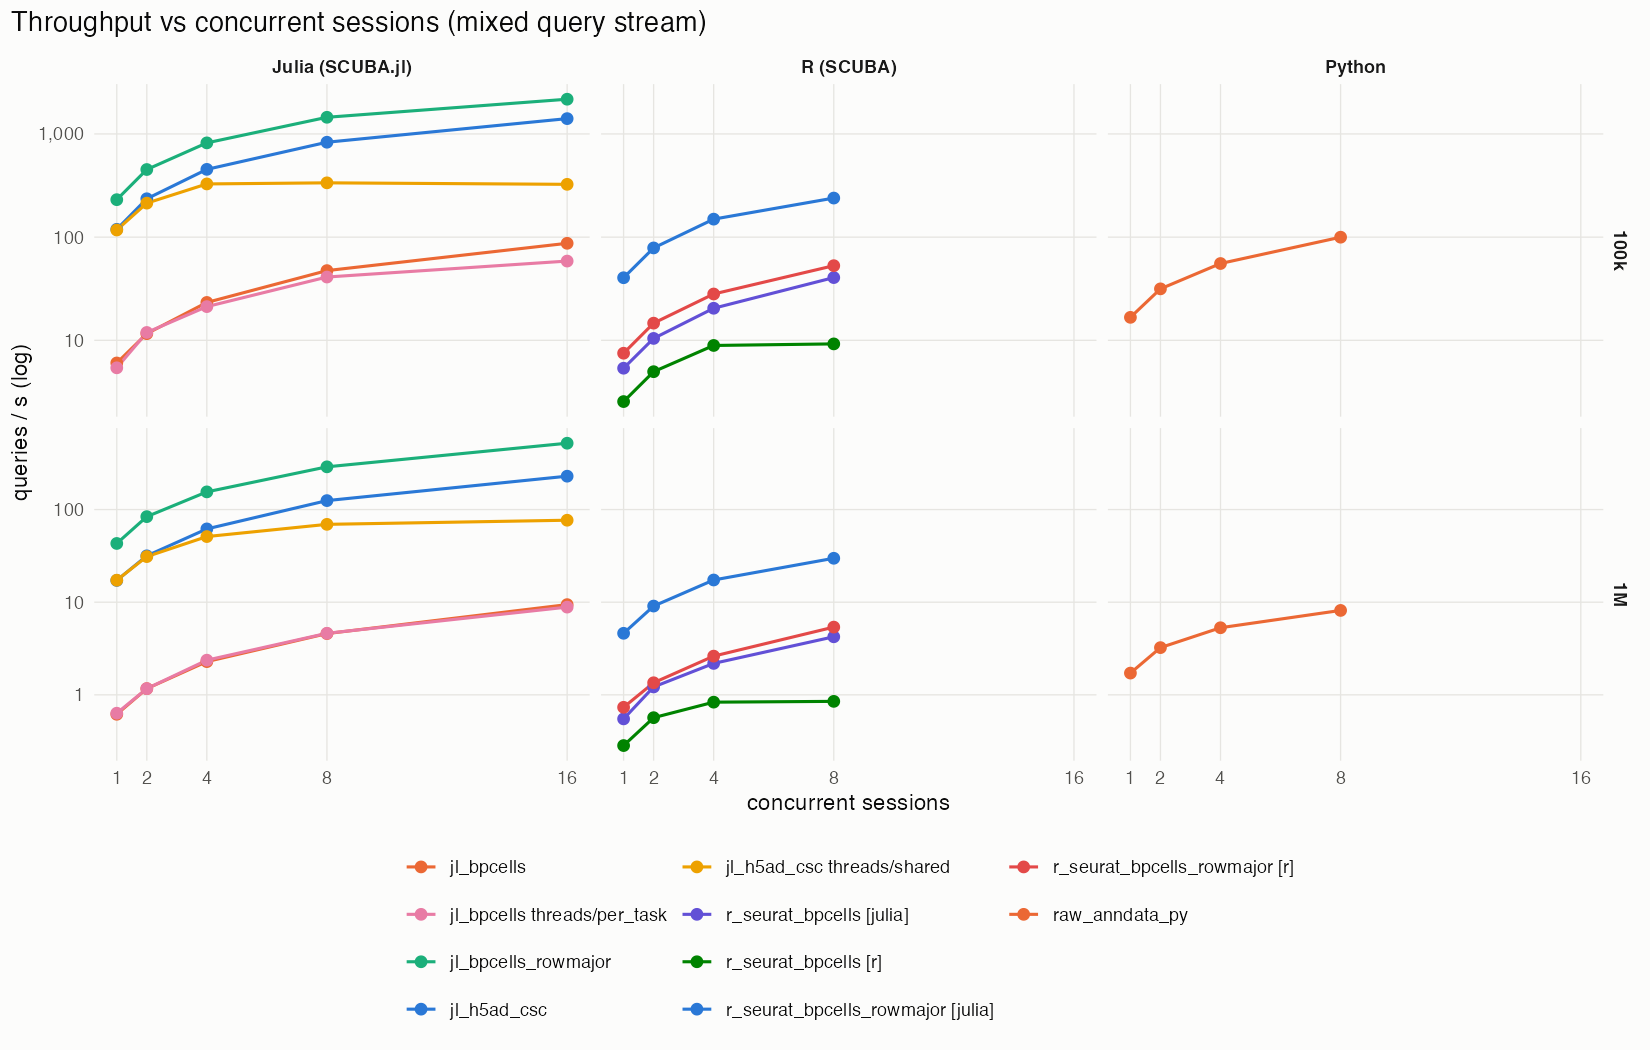
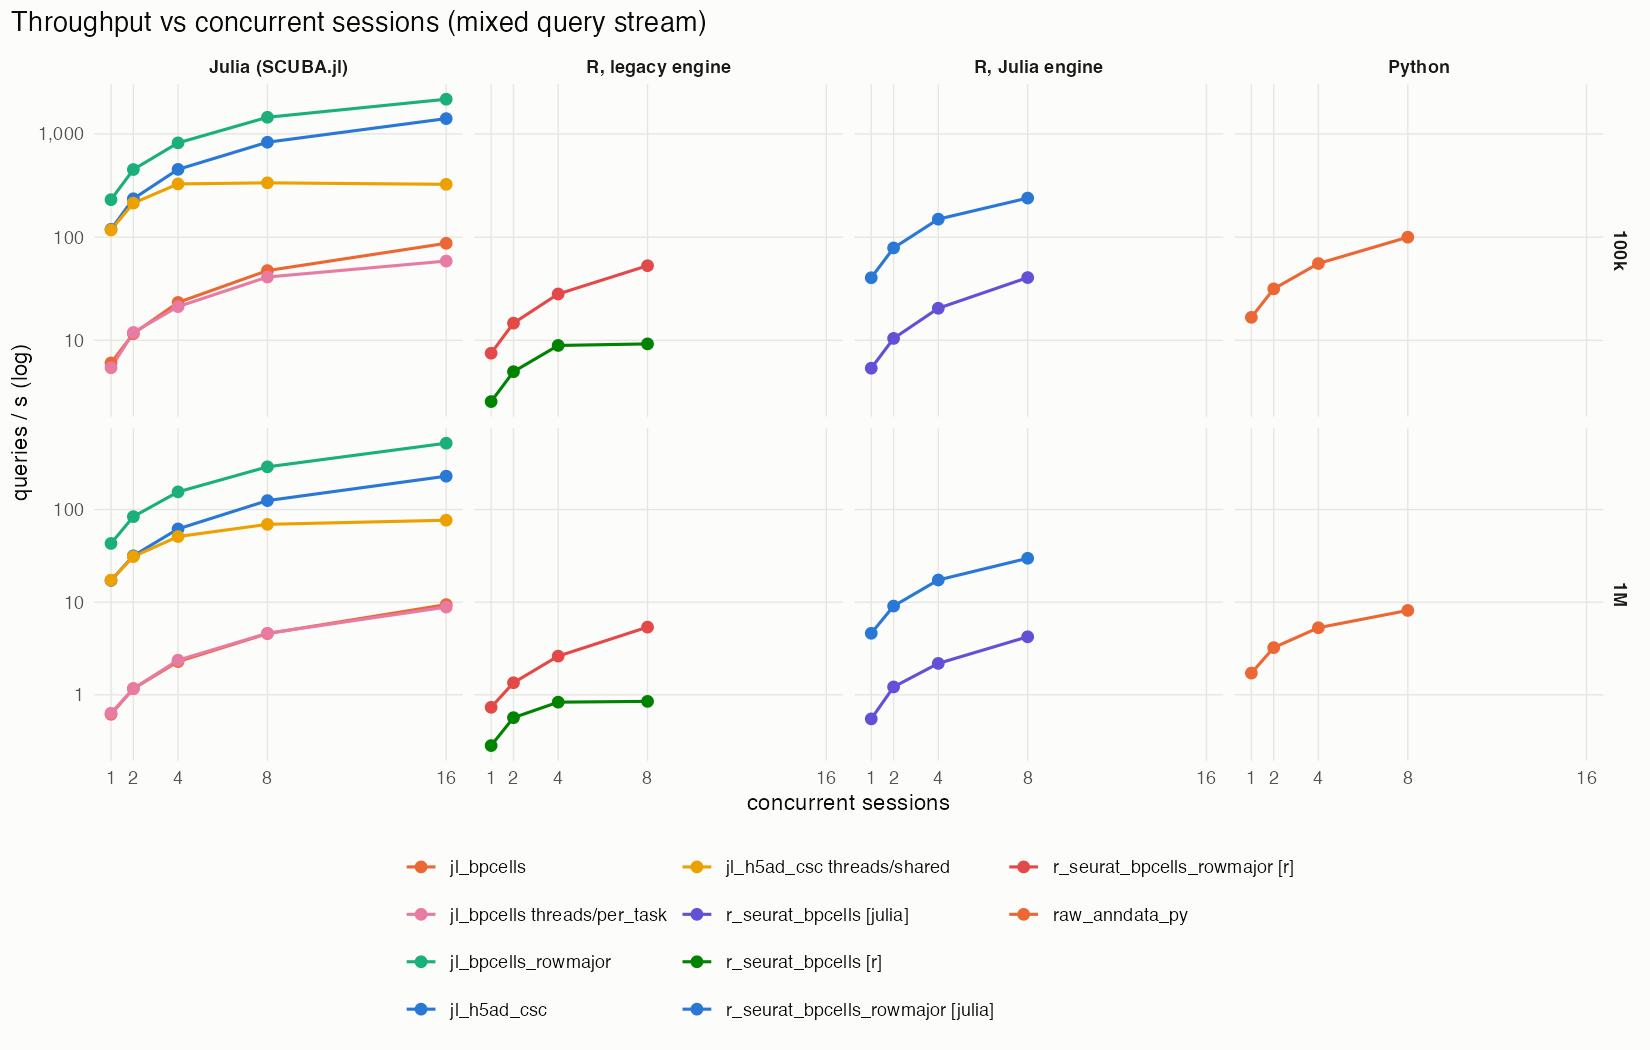
Bench report: file-backed R implementation and Python sparse/chunk rows at 100k and 1M
R panels are split by engine (legacy / Julia) so each keeps a fixed <= 8-colour slot set;
`r_h5ad_julia [julia]` gets its own slot. Interpretation adds the file-backed h5ad path from R
(1 gene over 1M cells 245 ms, 1000 genes 4.1 s, sparse block 3.1 s) and the Python sparse
(1.0 s) and chunked (10 s) rows for 1000 genes x 1M cells.

diff --git a/bench/report/summary.md b/bench/report/summary.md
@@ -1,6 +1,6 @@
 # SCUBA benchmark summary
 
-Generated 2026-10-21 00:35 MDT from `results.parquet` (843317 rows, 843242 ok).
+Generated 2026-10-22 01:24 MDT from `results.parquet` (845093 rows, 845015 ok).
 
 ## Interpretation
 
@@ -43,6 +43,17 @@ R engine and Julia engine) and raw library baselines on synthetic datasets of 10
   start-up 5.0 s → 3.3 s (JuliaCall's own set-up is ~2 s of that and RCall cannot be compiled into
   the image on Julia 1.13), after which the first call on a real object costs ~0.15 s thanks to a
   warm-up on tiny objects at start-up. For a Shiny app this is a one-time cost in `global.R`.
+- **File-backed h5ad from R (`r_h5ad_julia`).** `SCUBA::open_h5ad()` serves a csc h5ad file to R
+  through the Julia engine without reticulate: one gene over 1M cells costs 245 ms (13 ms at 100k)
+  and 1000 genes 4.1 s; `fetch_matrix(sparse = TRUE)` returns the 1000-gene block as a `dgCMatrix`
+  in 3.1 s. The fixed cost per call is the 1M-element cell-name column crossing JuliaCall into R
+  (the Julia reader itself needs 1.2 ms); metadata, cells and reductions stay in R (81 ms for the
+  full table, 87 ms for `fetch_cells`). This replaces the legacy reticulate path, which could not
+  be measured at all with current R `anndata`.
+- **Sparse and chunked results in Python.** `fetch_matrix(sparse=True)` hands 1000 genes × 1M cells
+  to scipy in 1.0 s versus 3.1 s for the dense pandas frame; `iter_chunks` over the same request
+  (sparse, 256 MiB chunks) takes 10 s because every chunk re-reads the requested csc columns, so
+  chunking is for bounding memory, not for speed, on this layout.
 - **Memory.** A 1000-gene × 1M-cell dense result is 8 GB; peak RSS reached 25 GB in Julia and 60 GB
   in R in these runs. SCUBA.jl now fills result columns directly for results above 256 MiB (peak
   ~9 GB for the same query), offers `eltype = Float32` and a sparse `fetch_matrix`, and the size
@@ -63,7 +74,7 @@ on its internal SSD.
 | jl_bpcells_rowmajor | 0.0 ms (IQR 0.0 ms–0.0 ms) | 0.1 ms (IQR 0.1 ms–0.1 ms) | 1.0 ms (IQR 0.9 ms–1.0 ms) | 10.3 ms (IQR 9.9 ms–10.3 ms) |
 | raw_anndata_py | 8.6 ms (IQR 8.6 ms–8.8 ms) | 8.8 ms (IQR 8.5 ms–8.9 ms) | 13.3 ms (IQR 12.8 ms–13.7 ms) | 44.8 ms (IQR 44.3 ms–45.6 ms) |
 | raw_h5py_py | 0.1 ms (IQR 0.1 ms–0.1 ms) | 1.2 ms (IQR 1.1 ms–1.2 ms) | 9.9 ms (IQR 9.9 ms–10.5 ms) | 100.4 ms (IQR 99.8 ms–105.7 ms) |
-| py_scuba_sc | 2.7 ms (IQR 2.6 ms–2.7 ms) | 4.1 ms (IQR 3.8 ms–4.7 ms) | 24.9 ms (IQR 22.9 ms–33.5 ms) | 254.5 ms (IQR 244.5 ms–267.2 ms) |
+| py_scuba_sc | 0.4 ms (IQR 0.4 ms–0.4 ms) | 1.1 ms (IQR 1.0 ms–1.2 ms) | 14.1 ms (IQR 10.4 ms–17.7 ms) | 155.1 ms (IQR 145.5 ms–194.3 ms) |
 | r_seurat_bpcells [r] | 54.0 ms (IQR 52.5 ms–55.0 ms) | 61.0 ms (IQR 60.0 ms–62.0 ms) | 125.0 ms (IQR 123.5 ms–130.0 ms) | 1.3 s (IQR 1.3 s–1.3 s) |
 | r_seurat_bpcells_rowmajor [r] | 26.0 ms (IQR 25.5 ms–26.0 ms) | 33.0 ms (IQR 32.0 ms–33.0 ms) | 102.0 ms (IQR 99.5 ms–103.5 ms) | 1.4 s (IQR 1.3 s–1.4 s) |
 | r_sce_backed [r] | 35.0 ms (IQR 35.0 ms–37.5 ms) | 38.0 ms (IQR 36.0 ms–38.0 ms) | 57.0 ms (IQR 56.0 ms–57.0 ms) | 542.0 ms (IQR 248.5 ms–571.0 ms) |
@@ -72,6 +83,7 @@ on its internal SSD.
 | r_seurat_bpcells [julia] | 32.0 ms (IQR 30.5 ms–32.0 ms) | 32.0 ms (IQR 32.0 ms–33.0 ms) | 39.0 ms (IQR 38.0 ms–41.0 ms) | 127.0 ms (IQR 110.5 ms–135.0 ms) |
 | r_seurat_bpcells_rowmajor [julia] | 1.0 ms (IQR 1.0 ms–1.0 ms) | 2.0 ms (IQR 1.0 ms–2.0 ms) | 7.0 ms (IQR 6.0 ms–7.0 ms) | 102.0 ms (IQR 79.5 ms–107.5 ms) |
 | r_sce_backed [julia] | 9.0 ms (IQR 9.0 ms–9.0 ms) | 12.0 ms (IQR 12.0 ms–13.0 ms) | 48.0 ms (IQR 45.0 ms–49.0 ms) | 500.0 ms (IQR 481.0 ms–764.5 ms) |
+| r_h5ad_julia [julia] | 1.0 ms (IQR 1.0 ms–2.0 ms) | 2.0 ms (IQR 2.0 ms–3.0 ms) | 14.0 ms (IQR 11.0 ms–17.0 ms) | 160.0 ms (IQR 157.5 ms–163.0 ms) |
 
 ## 10k cells: metadata, reductions, cells (median)
 
@@ -82,13 +94,14 @@ on its internal SSD.
 | jl_bpcells | 1.1 ms | 1.2 ms | 0.4 ms | 0.2 ms | 0.0 ms | 0.0 ms | 0.4 ms | 0.0 ms | 0.0 ms | 0.0 ms |
 | jl_bpcells_rowmajor | 1.4 ms | 1.5 ms | 0.4 ms | 0.2 ms | 0.0 ms | 0.0 ms | 0.4 ms | 0.0 ms | 0.0 ms | 0.0 ms |
 | raw_anndata_py | 9.4 ms | 9.8 ms | 19.4 ms | 0.1 ms | 0.1 ms | 0.1 ms | 0.4 ms | 0.0 ms | 19.9 ms | 19.1 ms |
-| py_scuba_sc | 2.5 ms | 3.6 ms | 23.7 ms | 12.3 ms | 3.3 ms | 5.2 ms | 52.7 ms | 4.9 ms | 0.4 ms | 0.4 ms |
+| py_scuba_sc | 2.3 ms | 3.2 ms | 19.6 ms | 10.2 ms | 0.6 ms | 2.4 ms | 56.8 ms | 2.4 ms | 0.3 ms | 0.3 ms |
 | r_seurat_bpcells [r] | 1.0 ms | 2.0 ms | 2.0 ms | 0.0 ms | 1.0 ms | 1.0 ms |  | 0.0 ms | 1.0 ms | 1.0 ms |
 | r_seurat_bpcells_rowmajor [r] | 1.0 ms | 1.0 ms | 2.0 ms | 0.0 ms | 1.0 ms | 1.0 ms |  | 1.0 ms | 1.0 ms | 1.0 ms |
 | r_sce_backed [r] | 2.0 ms | 2.0 ms | 4.0 ms | 6.0 ms | 3.0 ms | 19.0 ms |  | 19.0 ms | 2.0 ms | 3.0 ms |
 | r_seurat_bpcells [julia] | 2.0 ms | 3.0 ms | 4.0 ms | 14.0 ms | 2.0 ms | 2.0 ms | 14.0 ms | 2.0 ms | 4.0 ms | 4.0 ms |
 | r_seurat_bpcells_rowmajor [julia] | 3.0 ms | 3.0 ms | 4.0 ms | 16.0 ms | 1.0 ms | 2.0 ms | 15.0 ms | 2.0 ms | 4.0 ms | 4.0 ms |
 | r_sce_backed [julia] | 2.0 ms | 3.0 ms | 3.0 ms | 19.0 ms | 2.0 ms | 5.0 ms | 18.0 ms | 5.0 ms | 4.0 ms | 4.0 ms |
+| r_h5ad_julia [julia] | 0.0 ms | 0.0 ms | 2.0 ms | 1.0 ms | 0.0 ms | 4.0 ms |  | 3.0 ms | 1.0 ms | 1.0 ms |
 
 ## 100k cells: feature fetch over all cells, warm (median, IQR)
 
@@ -100,7 +113,7 @@ on its internal SSD.
 | jl_bpcells_rowmajor | 0.2 ms (IQR 0.2 ms–0.3 ms) | 0.8 ms (IQR 0.7 ms–0.8 ms) | 7.6 ms (IQR 7.2 ms–7.9 ms) | 70.9 ms (IQR 69.6 ms–71.8 ms) |
 | raw_anndata_py | 38.2 ms (IQR 37.2 ms–39.3 ms) | 40.6 ms (IQR 37.9 ms–41.2 ms) | 51.1 ms (IQR 47.4 ms–51.6 ms) | 113.5 ms (IQR 110.6 ms–115.5 ms) |
 | raw_h5py_py | 0.1 ms (IQR 0.1 ms–0.2 ms) | 1.2 ms (IQR 1.2 ms–1.2 ms) | 13.6 ms (IQR 12.8 ms–13.7 ms) | 134.5 ms (IQR 132.4 ms–135.3 ms) |
-| py_scuba_sc | 1.2 ms (IQR 1.1 ms–1.2 ms) | 9.5 ms (IQR 4.7 ms–32.9 ms) | 88.4 ms (IQR 47.5 ms–93.7 ms) | 423.1 ms (IQR 368.1 ms–465.3 ms) |
+| py_scuba_sc | 1.3 ms (IQR 1.2 ms–1.3 ms) | 4.9 ms (IQR 4.4 ms–13.2 ms) | 86.4 ms (IQR 41.5 ms–96.5 ms) | 473.3 ms (IQR 447.0 ms–496.6 ms) |
 | r_seurat_bpcells [r] | 523.0 ms (IQR 519.0 ms–529.5 ms) | 595.0 ms (IQR 589.0 ms–616.0 ms) | 1.9 s (IQR 1.6 s–1.9 s) | 7.4 s (IQR 7.3 s–7.6 s) |
 | r_sce_backed [r] | 50.0 ms (IQR 50.0 ms–54.0 ms) | 68.0 ms (IQR 67.0 ms–68.0 ms) | 264.0 ms (IQR 259.0 ms–273.0 ms) | 3.0 s (IQR 2.9 s–3.3 s) |
 | raw_bpcells_r [r] | 328.0 ms (IQR 317.5 ms–330.5 ms) | 328.0 ms (IQR 324.5 ms–333.0 ms) | 414.0 ms (IQR 409.5 ms–425.5 ms) | 781.0 ms (IQR 771.0 ms–1.1 s) |
@@ -108,6 +121,7 @@ on its internal SSD.
 | r_seurat_bpcells [julia] | 316.0 ms (IQR 313.5 ms–319.0 ms) | 322.0 ms (IQR 319.0 ms–324.5 ms) | 432.0 ms (IQR 428.0 ms–438.5 ms) | 829.0 ms (IQR 773.0 ms–1.1 s) |
 | r_seurat_bpcells_rowmajor [julia] | 6.0 ms (IQR 6.0 ms–6.0 ms) | 10.0 ms (IQR 10.0 ms–10.0 ms) | 87.0 ms (IQR 51.0 ms–96.5 ms) | 462.0 ms (IQR 385.5 ms–809.5 ms) |
 | r_sce_backed [julia] | 19.0 ms (IQR 18.5 ms–25.0 ms) | 58.0 ms (IQR 57.0 ms–63.5 ms) | 485.0 ms (IQR 459.0 ms–501.0 ms) | 4.4 s (IQR 4.4 s–4.5 s) |
+| r_h5ad_julia [julia] | 13.0 ms (IQR 12.5 ms–14.5 ms) | 18.0 ms (IQR 17.5 ms–22.0 ms) | 107.0 ms (IQR 65.5 ms–109.0 ms) | 784.0 ms (IQR 621.5 ms–1.0 s) |
 
 ## 100k cells: metadata, reductions, cells (median)
 
@@ -118,12 +132,13 @@ on its internal SSD.
 | jl_bpcells | 11.3 ms | 12.2 ms | 4.2 ms | 1.4 ms | 0.1 ms | 0.2 ms | 3.6 ms | 0.2 ms | 0.0 ms | 0.0 ms |
 | jl_bpcells_rowmajor | 12.8 ms | 13.8 ms | 4.5 ms | 1.5 ms | 0.1 ms | 0.2 ms | 3.8 ms | 0.2 ms | 0.0 ms | 0.0 ms |
 | raw_anndata_py | 98.6 ms | 103.8 ms | 200.5 ms | 0.1 ms | 0.1 ms | 0.7 ms | 1.8 ms | 0.2 ms | 192.1 ms | 185.0 ms |
-| py_scuba_sc | 24.3 ms | 33.2 ms | 197.9 ms | 59.9 ms | 1.6 ms | 20.2 ms | 559.6 ms | 18.6 ms | 1.5 ms | 1.5 ms |
+| py_scuba_sc | 25.0 ms | 30.5 ms | 193.8 ms | 62.8 ms | 1.4 ms | 19.5 ms | 531.8 ms | 18.6 ms | 1.5 ms | 1.4 ms |
 | r_seurat_bpcells [r] | 7.0 ms | 12.0 ms | 16.0 ms | 0.0 ms | 3.0 ms | 6.0 ms |  | 5.0 ms | 3.0 ms | 3.0 ms |
 | r_sce_backed [r] | 5.0 ms | 8.0 ms | 16.0 ms | 8.0 ms | 4.0 ms | 25.0 ms |  | 25.0 ms | 5.0 ms | 5.0 ms |
 | r_seurat_bpcells [julia] | 19.0 ms | 21.0 ms | 26.0 ms | 188.0 ms | 8.0 ms | 16.0 ms | 198.0 ms | 16.0 ms | 25.0 ms | 25.0 ms |
 | r_seurat_bpcells_rowmajor [julia] | 6.0 ms | 10.0 ms | 14.0 ms | 0.0 ms | 3.0 ms | 4.0 ms |  | 4.0 ms | 3.0 ms | 3.0 ms |
 | r_sce_backed [julia] | 20.0 ms | 23.0 ms | 27.0 ms | 149.0 ms | 8.0 ms | 21.0 ms | 215.0 ms | 22.0 ms | 26.0 ms | 27.0 ms |
+| r_h5ad_julia [julia] | 4.0 ms | 7.0 ms | 12.0 ms | 7.0 ms | 2.0 ms | 39.0 ms |  | 38.0 ms | 6.0 ms | 5.0 ms |
 
 ## 1M cells: feature fetch over all cells, warm (median, IQR)
 
@@ -135,7 +150,7 @@ on its internal SSD.
 | jl_bpcells_rowmajor | 1.9 ms (IQR 1.9 ms–2.0 ms) | 8.2 ms (IQR 7.7 ms–8.3 ms) | 86.7 ms (IQR 86.0 ms–87.3 ms) | 1.7 s (IQR 1.6 s–1.9 s) |
 | raw_anndata_py | 497.4 ms (IQR 479.4 ms–500.7 ms) | 464.3 ms (IQR 459.3 ms–479.7 ms) | 504.2 ms (IQR 502.0 ms–519.1 ms) | 809.3 ms (IQR 807.3 ms–815.9 ms) |
 | raw_h5py_py | 0.1 ms (IQR 0.1 ms–0.1 ms) | 0.9 ms (IQR 0.8 ms–1.3 ms) | 13.1 ms (IQR 10.4 ms–14.6 ms) | 127.5 ms (IQR 126.8 ms–127.8 ms) |
-| py_scuba_sc | 7.7 ms (IQR 6.7 ms–16.8 ms) | 96.1 ms (IQR 89.8 ms–101.6 ms) | 426.0 ms (IQR 352.9 ms–482.2 ms) | 3.3 s (IQR 3.1 s–3.5 s) |
+| py_scuba_sc | 8.1 ms (IQR 7.0 ms–18.3 ms) | 93.3 ms (IQR 69.2 ms–102.4 ms) | 412.4 ms (IQR 317.5 ms–457.9 ms) | 3.1 s (IQR 3.0 s–3.3 s) |
 | r_seurat_bpcells [r] | 5.5 s (IQR 5.5 s–5.6 s) | 6.5 s (IQR 6.2 s–6.6 s) | 14.2 s (IQR 14.0 s–14.3 s) | 70.6 s (IQR 69.9 s–73.0 s) |
 | r_seurat_bpcells_rowmajor [r] | 2.3 s (IQR 2.3 s–2.4 s) | 3.4 s (IQR 3.3 s–3.4 s) | 10.7 s (IQR 10.6 s–10.9 s) | 67.5 s (IQR 67.1 s–67.9 s) |
 | r_sce_backed [r] | 254.0 ms (IQR 251.0 ms–256.0 ms) | 438.0 ms (IQR 431.0 ms–450.0 ms) | 3.9 s (IQR 3.8 s–4.1 s) | 39.6 s (IQR 39.4 s–40.1 s) |
@@ -144,6 +159,7 @@ on its internal SSD.
 | r_seurat_bpcells [julia] | 3.3 s (IQR 3.2 s–3.3 s) | 3.4 s (IQR 3.4 s–3.4 s) | 4.1 s (IQR 4.1 s–4.3 s) | 8.0 s (IQR 7.8 s–8.1 s) |
 | r_seurat_bpcells_rowmajor [julia] | 110.0 ms (IQR 107.0 ms–128.5 ms) | 202.0 ms (IQR 146.5 ms–212.0 ms) | 535.0 ms (IQR 436.0 ms–611.5 ms) | 4.7 s (IQR 4.6 s–4.9 s) |
 | r_sce_backed [julia] | 181.0 ms (IQR 178.0 ms–187.0 ms) | 637.0 ms (IQR 628.5 ms–643.0 ms) | 4.5 s (IQR 4.1 s–4.6 s) | 40.6 s (IQR 40.2 s–40.9 s) |
+| r_h5ad_julia [julia] | 245.0 ms (IQR 209.0 ms–256.5 ms) | 306.0 ms (IQR 297.5 ms–318.0 ms) | 667.0 ms (IQR 634.0 ms–712.5 ms) | 4.1 s (IQR 4.0 s–4.5 s) |
 
 ## 1M cells: metadata, reductions, cells (median)
 
@@ -154,13 +170,14 @@ on its internal SSD.
 | jl_bpcells | 136.0 ms | 149.3 ms | 44.5 ms | 16.1 ms | 1.2 ms | 2.4 ms | 33.6 ms | 2.4 ms | 0.1 ms | 0.1 ms |
 | jl_bpcells_rowmajor | 132.8 ms | 142.0 ms | 44.8 ms | 15.6 ms | 1.1 ms | 2.3 ms | 35.2 ms | 2.3 ms | 0.1 ms | 0.1 ms |
 | raw_anndata_py | 55.3 ms | 85.2 ms | 130.3 ms | 0.3 ms | 0.3 ms | 12.4 ms | 44.9 ms | 0.6 ms | 108.9 ms | 78.1 ms |
-| py_scuba_sc | 272.2 ms | 344.4 ms | 149.8 ms | 845.2 ms | 6.9 ms | 296.9 ms | 5.6 s | 279.5 ms | 14.5 ms | 13.7 ms |
+| py_scuba_sc | 214.0 ms | 301.9 ms | 142.9 ms | 732.8 ms | 6.6 ms | 281.8 ms | 5.0 s | 267.9 ms | 13.6 ms | 12.9 ms |
 | r_seurat_bpcells [r] | 85.0 ms | 137.0 ms | 144.0 ms | 2.0 ms | 32.0 ms | 60.0 ms |  | 62.0 ms | 34.0 ms | 34.0 ms |
 | r_seurat_bpcells_rowmajor [r] | 88.0 ms | 133.0 ms | 140.0 ms | 2.0 ms | 28.0 ms | 56.0 ms |  | 53.0 ms | 33.0 ms | 35.0 ms |
 | r_sce_backed [r] | 68.0 ms | 99.0 ms | 140.0 ms | 44.0 ms | 30.0 ms | 123.0 ms |  | 133.0 ms | 33.0 ms | 34.0 ms |
 | r_seurat_bpcells [julia] | 236.0 ms | 291.0 ms | 340.0 ms | 1.8 s | 133.0 ms | 243.0 ms | 1.8 s | 232.0 ms | 401.0 ms | 429.0 ms |
 | r_seurat_bpcells_rowmajor [julia] | 233.0 ms | 279.0 ms | 336.0 ms | 1.7 s | 135.0 ms | 252.0 ms | 1.7 s | 301.0 ms | 401.0 ms | 415.0 ms |
 | r_sce_backed [julia] | 230.0 ms | 291.0 ms | 337.0 ms | 1.8 s | 139.0 ms | 259.0 ms | 1.9 s | 257.0 ms | 412.0 ms | 429.0 ms |
+| r_h5ad_julia [julia] | 57.0 ms | 87.0 ms | 136.0 ms | 81.0 ms | 28.0 ms | 495.0 ms |  | 455.0 ms | 73.0 ms | 72.0 ms |
 
 ## Startup, open and first-call latency (median)
 
@@ -201,15 +218,18 @@ on its internal SSD.
 | r_sce_backed [julia] | 100k | 117.0 ms | 214.0 ms |  |
 | r_sce_backed [julia] | 10k | 47.0 ms | 32.0 ms |  |
 | r_sce_backed [julia] | 1M | 462.0 ms | 2.4 s |  |
+| r_h5ad_julia [julia] | 100k | 14.0 ms | 387.0 ms | 4.8 s |
+| r_h5ad_julia [julia] | 10k | 3.0 ms | 201.0 ms | 4.9 s |
+| r_h5ad_julia [julia] | 1M | 266.0 ms | 3.9 s | 4.9 s |
 | raw_anndata_py | 100k | 51.1 ms | 780.0 ms | 1.3 s |
 | raw_anndata_py | 10k | 9.4 ms | 545.5 ms | 1.3 s |
 | raw_anndata_py | 1M | 96.9 ms | 3.2 s | 1.6 s |
 | raw_h5py_py | 100k | 0.3 ms | 49.9 ms |  |
 | raw_h5py_py | 10k | 0.2 ms | 14.7 ms |  |
 | raw_h5py_py | 1M | 0.2 ms | 403.2 ms |  |
-| py_scuba_sc | 100k | 306.5 ms | 4.2 s | 32.9 ms |
-| py_scuba_sc | 10k | 367.0 ms | 5.4 s | 35.1 ms |
-| py_scuba_sc | 1M | 479.8 ms | 5.1 s | 41.0 ms |
+| py_scuba_sc | 100k | 350.9 ms | 4.2 s | 831.9 ms |
+| py_scuba_sc | 10k | 284.5 ms | 8.8 s | 36.1 ms |
+| py_scuba_sc | 1M | 753.1 ms | 5.1 s | 860.4 ms |
 
 ## Skipped and failed cells
 
@@ -219,6 +239,9 @@ on its internal SSD.
 | r_anndata_backed | r | 100k | skipped | R anndata 0.8.0 returns python-class objects; install remotes::install_version('anndata', '0.7.5.6') |  1 |
 | r_anndata_backed | r | 10k | skipped | R anndata 0.8.0 returns python-class objects; install remotes::install_version('anndata', '0.7.5.6') |  1 |
 | r_anndata_backed | r | 1M | skipped | R anndata 0.8.0 returns python-class objects; install remotes::install_version('anndata', '0.7.5.6') |  1 |
+| r_h5ad_julia | julia | 100k | skipped | legacy fetch_reduction supports exactly two dims |  1 |
+| r_h5ad_julia | julia | 10k | skipped | legacy fetch_reduction supports exactly two dims |  1 |
+| r_h5ad_julia | julia | 1M | skipped | legacy fetch_reduction supports exactly two dims |  1 |
 | r_sce_backed | r | 100k | skipped | legacy fetch_reduction supports exactly two dims |  1 |
 | r_sce_backed | r | 10k | skipped | legacy fetch_reduction supports exactly two dims |  1 |
 | r_sce_backed | r | 1M | skipped | legacy fetch_reduction supports exactly two dims |  1 |

diff --git a/bench/report/interpretation.md b/bench/report/interpretation.md
@@ -39,6 +39,17 @@ R engine and Julia engine) and raw library baselines on synthetic datasets of 10
   start-up 5.0 s → 3.3 s (JuliaCall's own set-up is ~2 s of that and RCall cannot be compiled into
   the image on Julia 1.13), after which the first call on a real object costs ~0.15 s thanks to a
   warm-up on tiny objects at start-up. For a Shiny app this is a one-time cost in `global.R`.
+- **File-backed h5ad from R (`r_h5ad_julia`).** `SCUBA::open_h5ad()` serves a csc h5ad file to R
+  through the Julia engine without reticulate: one gene over 1M cells costs 245 ms (13 ms at 100k)
+  and 1000 genes 4.1 s; `fetch_matrix(sparse = TRUE)` returns the 1000-gene block as a `dgCMatrix`
+  in 3.1 s. The fixed cost per call is the 1M-element cell-name column crossing JuliaCall into R
+  (the Julia reader itself needs 1.2 ms); metadata, cells and reductions stay in R (81 ms for the
+  full table, 87 ms for `fetch_cells`). This replaces the legacy reticulate path, which could not
+  be measured at all with current R `anndata`.
+- **Sparse and chunked results in Python.** `fetch_matrix(sparse=True)` hands 1000 genes × 1M cells
+  to scipy in 1.0 s versus 3.1 s for the dense pandas frame; `iter_chunks` over the same request
+  (sparse, 256 MiB chunks) takes 10 s because every chunk re-reads the requested csc columns, so
+  chunking is for bounding memory, not for speed, on this layout.
 - **Memory.** A 1000-gene × 1M-cell dense result is 8 GB; peak RSS reached 25 GB in Julia and 60 GB
   in R in these runs. SCUBA.jl now fills result columns directly for results above 256 MiB (peak
   ~9 GB for the same query), offers `eltype = Float32` and a sparse `fetch_matrix`, and the size
